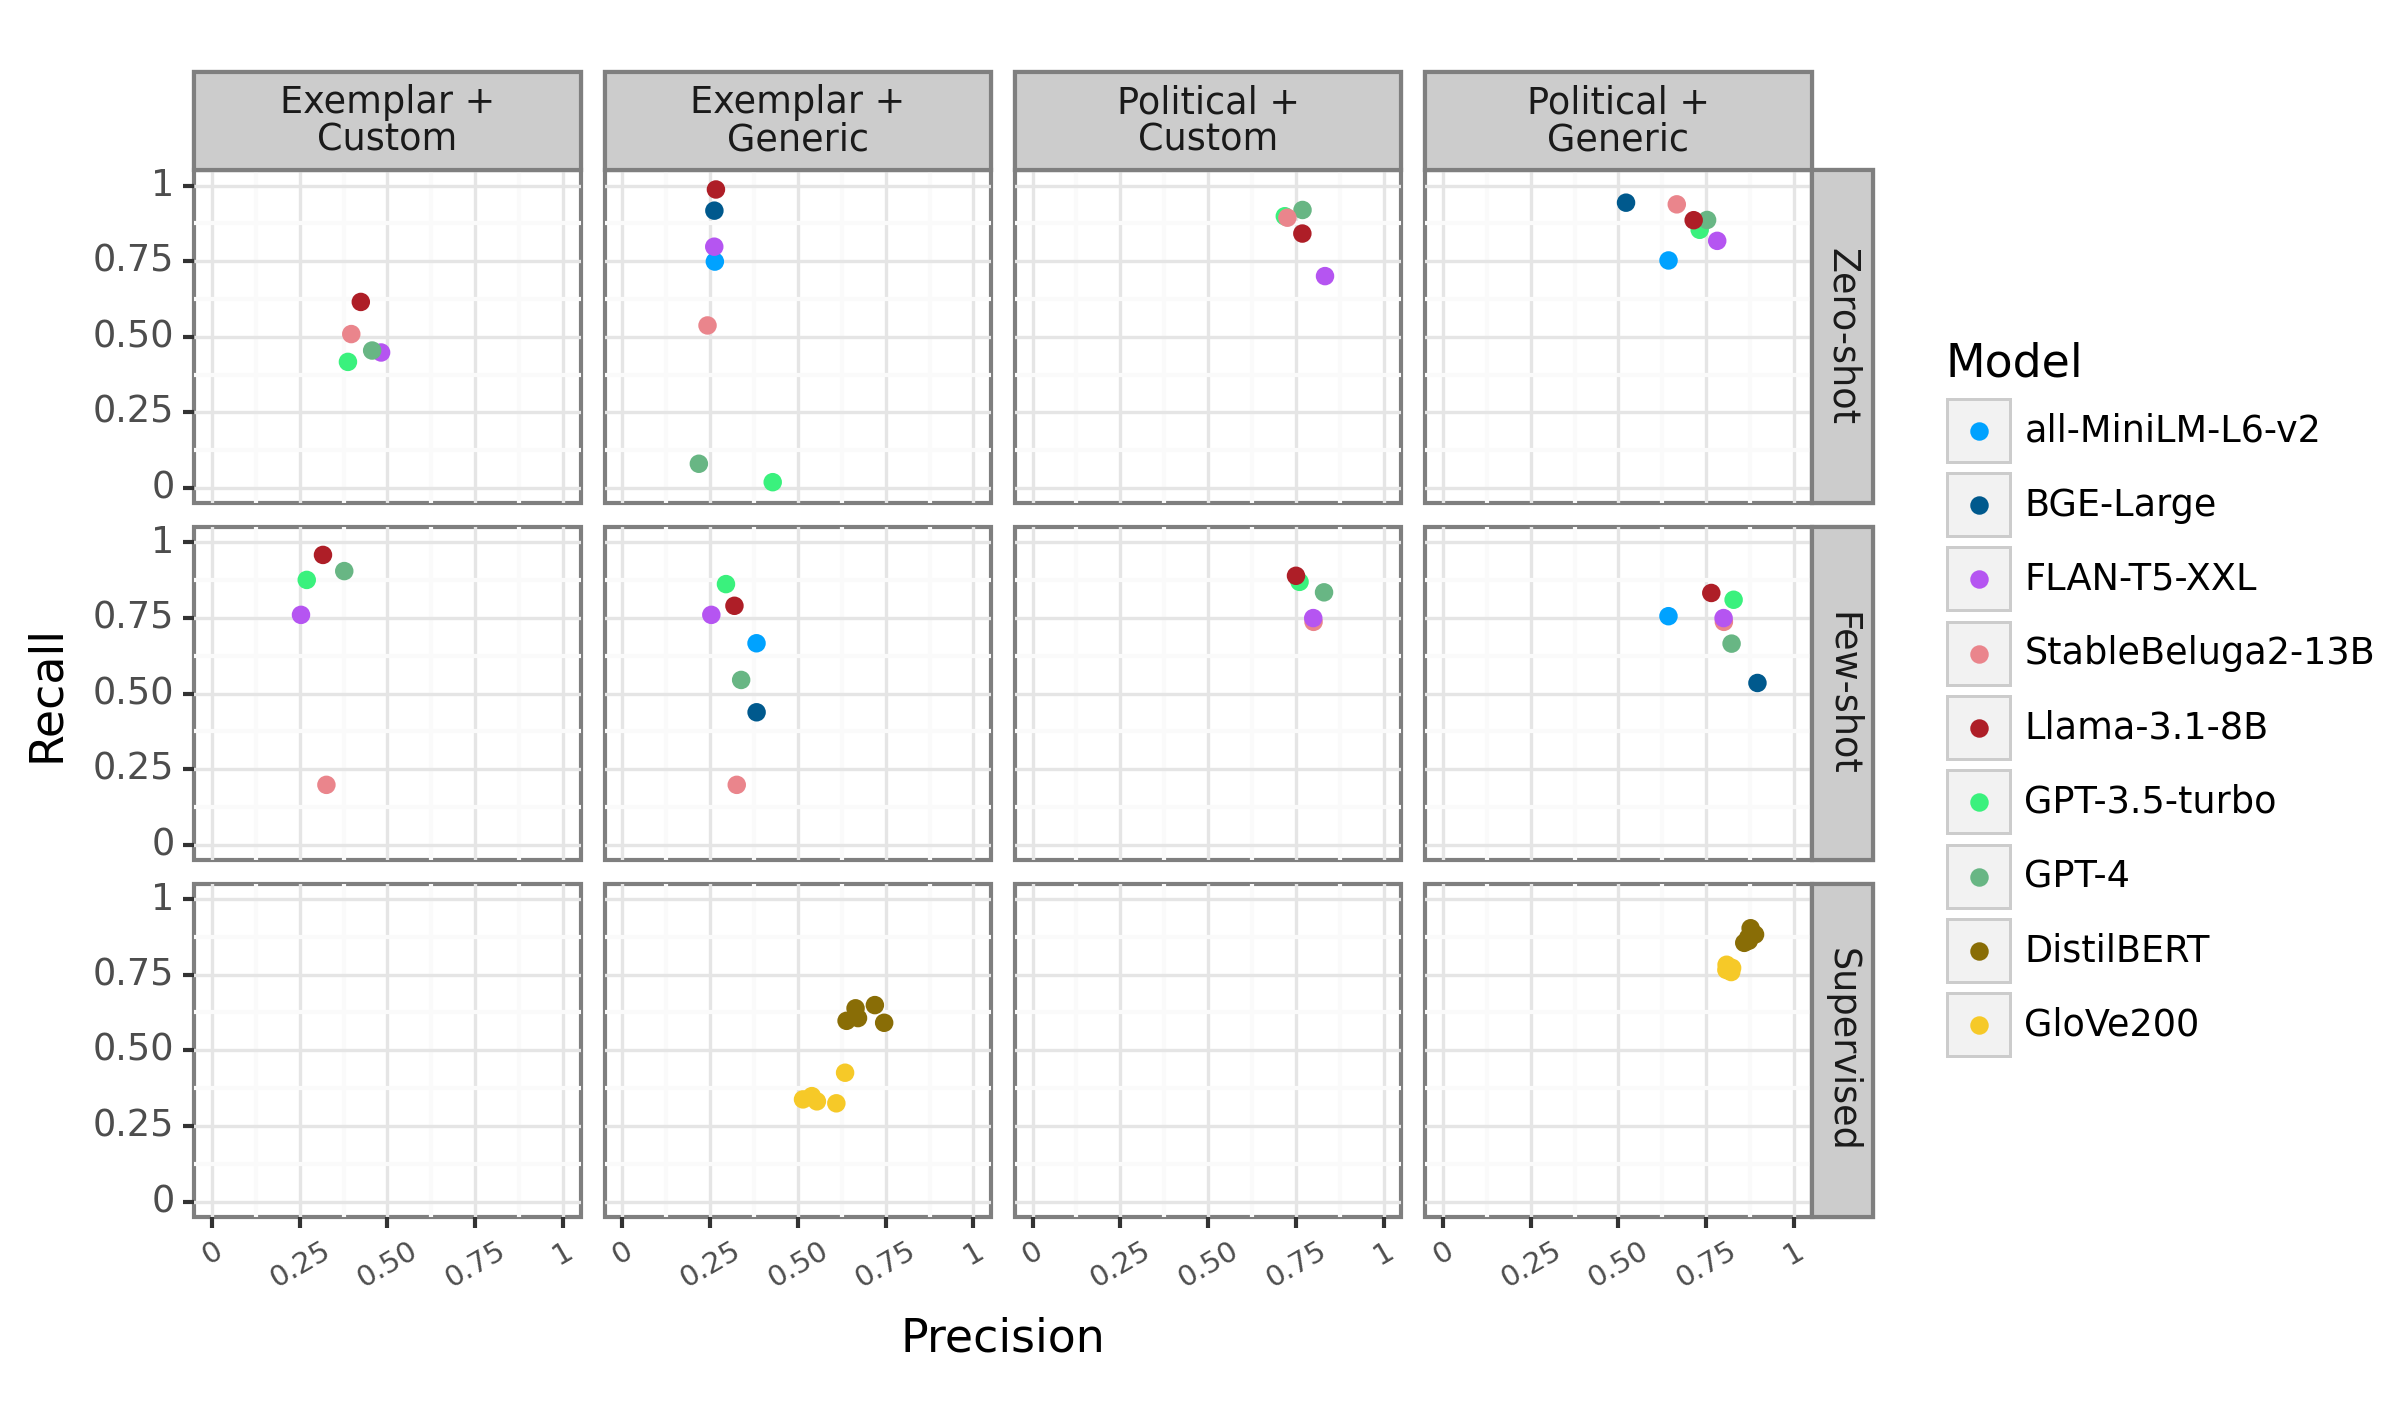
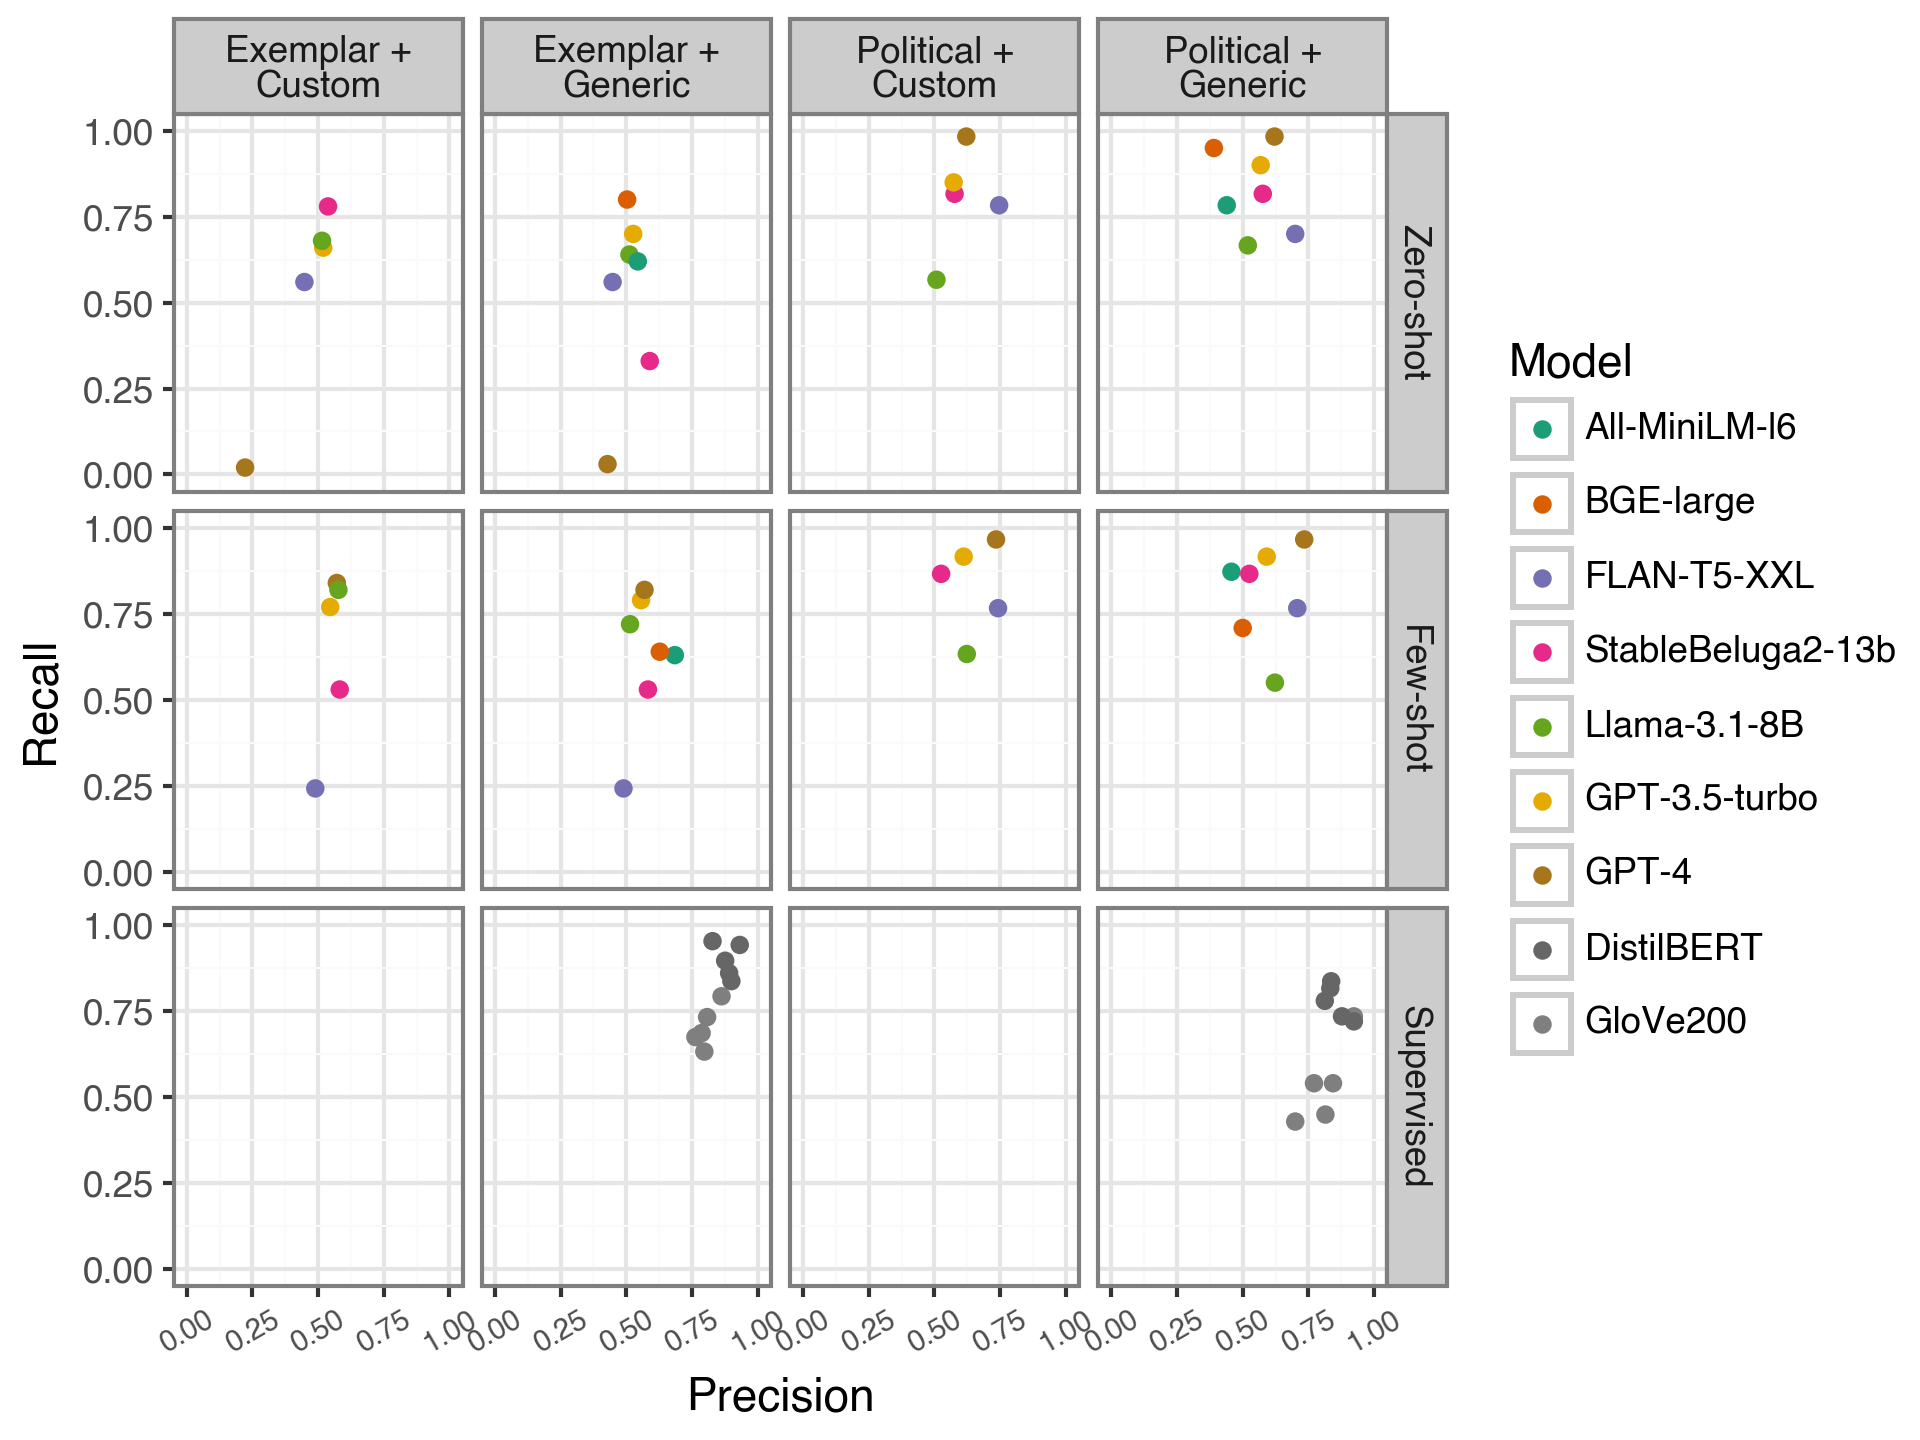
revising repo after rerunning experiments

Changed region(s): [[0.0, 0.0, 1.0, 0.9986], [0.125, 0.5305, 0.1875, 0.5617]]

diff --git a/llm_classification.py b/llm_classification.py
@@ -7,12 +7,7 @@ from typing import Any, Literal, Optional
 import pandas as pd
 from confection import Config
 from sklearn.base import ClassifierMixin
-from stormtrooper import (GenerativeFewShotClassifier,
-                          GenerativeZeroShotClassifier,
-                          OpenAIFewShotClassifier, OpenAIZeroShotClassifier,
-                          SetFitFewShotClassifier, SetFitZeroShotClassifier,
-                          Text2TextFewShotClassifier,
-                          Text2TextZeroShotClassifier, ZeroShotClassifier)
+from stormtrooper import Trooper
 from transformers import AutoConfig
 
 
@@ -146,23 +141,28 @@ def run_config(config: Config) -> None:
     data = data.dropna(subset=[x_column, y_column])
     data = data.reset_index()
 
-    try:
-        examples_path = config["paths"]["examples"]
-        examples = pd.read_csv(examples_path)
-        examples = examples.dropna(subset=y_column)
-        X_train = examples[x_column]
-        y_train = examples[y_column]
-        train_indices = []
-    except KeyError:
-        print("Preparing training data")
-        train_indices = find_example_indices(
-            data,
-            y_column,
-            config["inference"]["n_examples"],
-            seed=config["system"]["seed"],
-        )
-        X_train = data[x_column][train_indices]
-        y_train = data[y_column][train_indices]
+    if task == "zero-shot":
+        X_train = None
+        y_train = pd.unique(data[y_column])
+
+    if task == "few-shot":
+        try:
+            examples_path = config["paths"]["examples"]
+            examples = pd.read_csv(examples_path)
+            examples = examples.dropna(subset=y_column)
+            X_train = examples[x_column]
+            y_train = examples[y_column]
+            train_indices = []
+        except KeyError:
+            print("Preparing training data")
+            train_indices = find_example_indices(
+                data,
+                y_column,
+                config["inference"]["n_examples"],
+                seed=config["system"]["seed"],
+            )
+            X_train = data[x_column][train_indices]
+            y_train = data[y_column][train_indices]
 
     data["train_test_set"] = "test"
 
@@ -170,13 +170,10 @@ def run_config(config: Config) -> None:
         data["train_test_set"][train_indices] = "train"
 
     print("Loading model")
-    classifier = prepare_model(
-        model_name,
-        task,
-        device=config["system"]["device"],
-        custom_prompt=custom_prompt,
-    )
+    classifier = Trooper(model_name, prompt=custom_prompt, fuzzy_match=True)
 
+    print(X_train, y_train)
+    
     print("Fitting model")
     classifier.fit(X_train, y_train)
 
